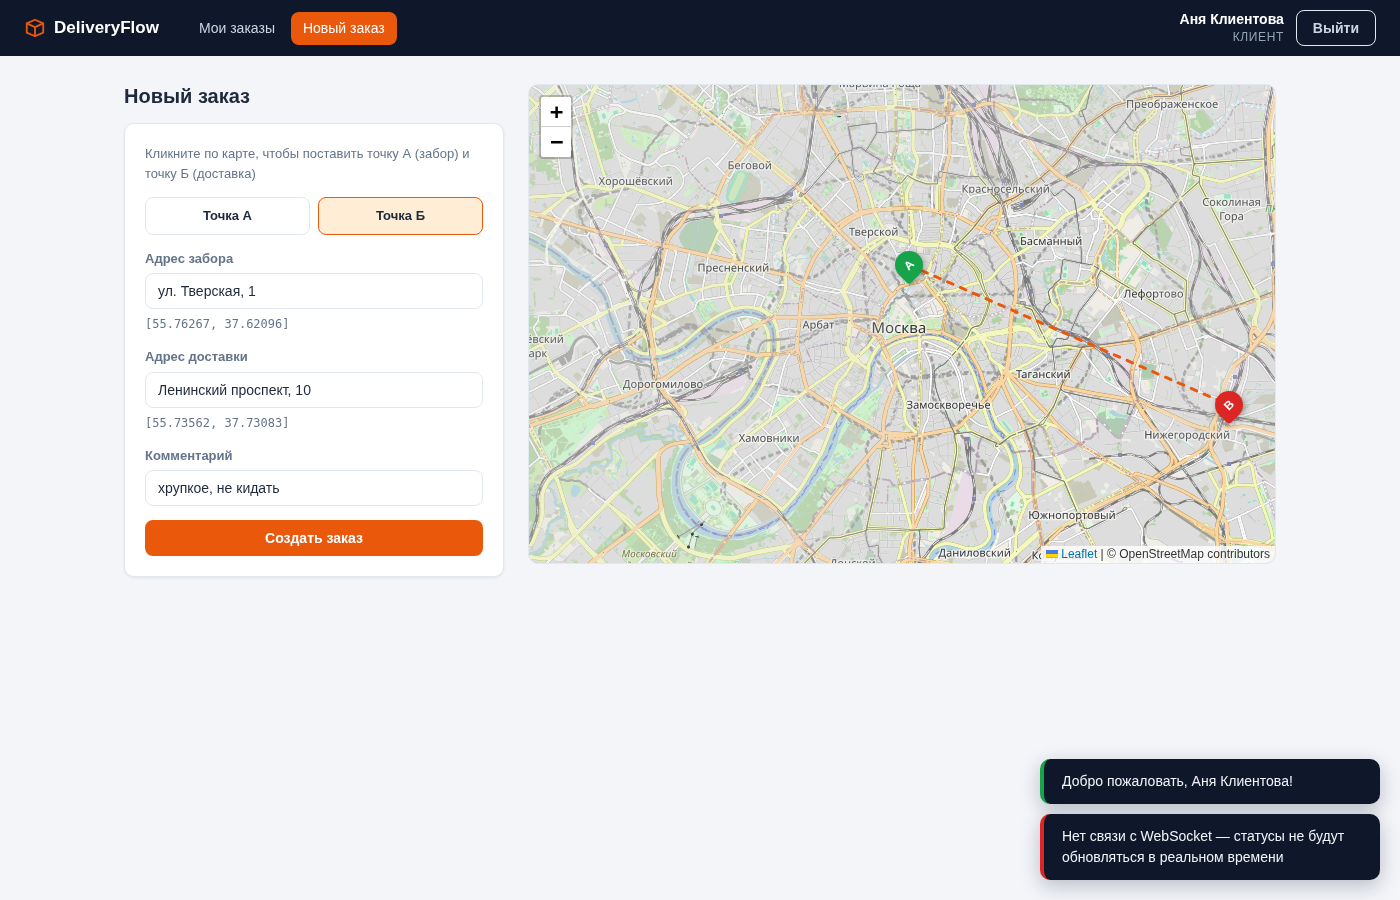
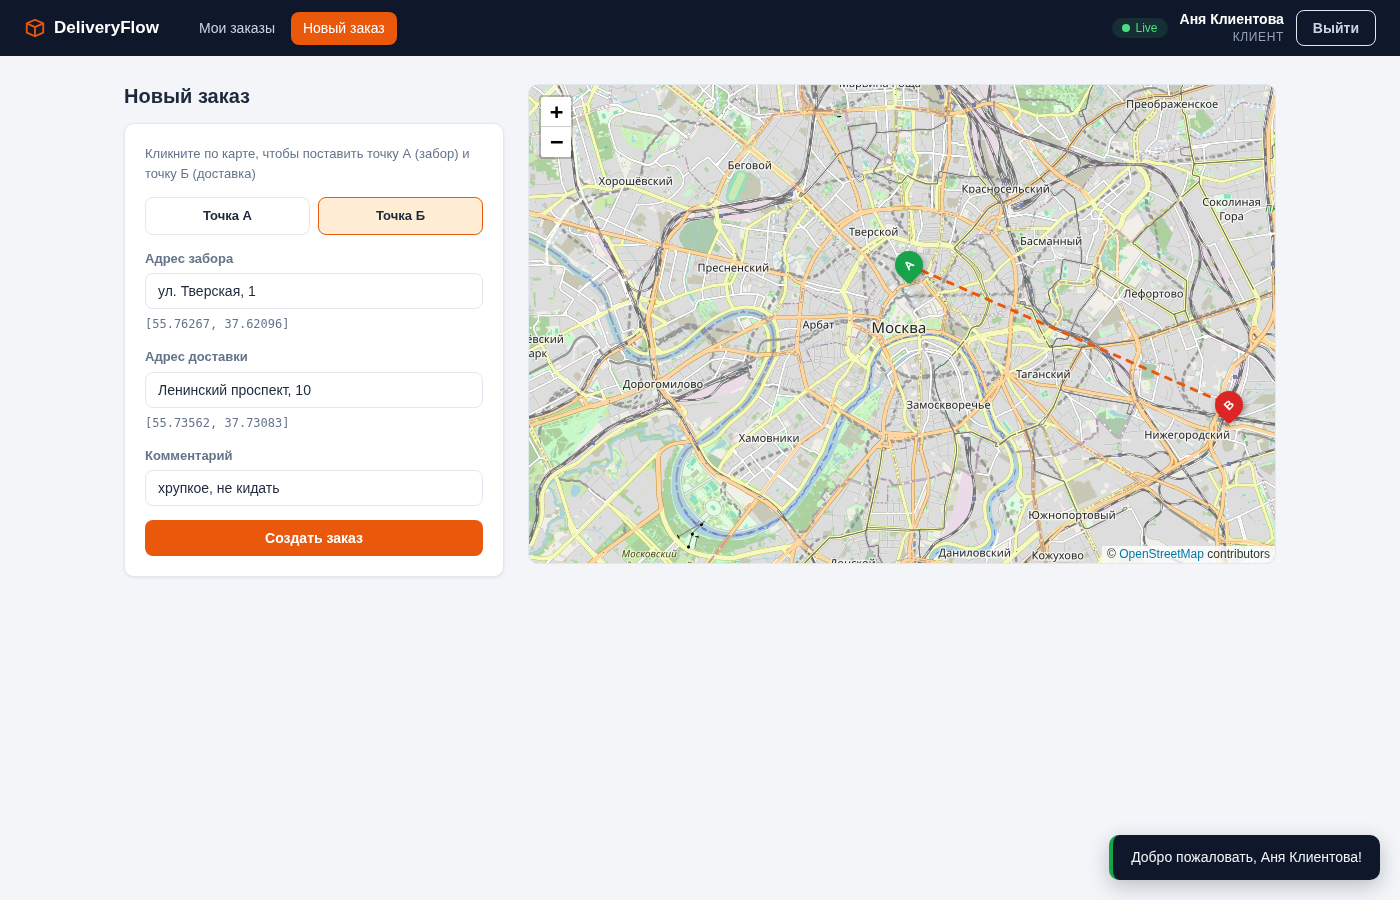
docs: Refresh screenshots and WebSocket section in READMEs

diff --git a/frontend/README.md b/frontend/README.md
@@ -33,11 +33,11 @@ frontend/
 │   ├── config.js       # адреса API/WS
 │   ├── api.js          # fetch-обёртка + автообновление JWT
 │   ├── auth.js         # сессия в localStorage
-│   ├── ws.js           # SockJS + STOMP, подписки на топики
+│   ├── ws.js           # нативный WebSocket + STOMP, подписки на топики
 │   ├── map.js          # обёртка над Leaflet
-│   ├── header.js       # шапка с навигацией по роли
+│   ├── header.js       # шапка с навигацией по роли и live-индикатором
 │   ├── router.js       # hash-роутер с проверкой роли
 │   ├── ui.js           # бейджи статусов, степпер, тосты
 │   └── views/          # экраны: авторизация, клиент, курьер, админ
-└── lib/                # sockjs, stomp.js, leaflet (без CDN)
+└── lib/                # stomp.js, leaflet (без CDN)
 ```

diff --git a/README.md b/README.md
@@ -128,7 +128,9 @@ python3 -m http.server 8000   # фронт на :8000 (CORS на бэкенде 
 - `GET /api/v1/admin/couriers` — курьеры
 - `GET /api/v1/admin/orders/{id}/history` — история статусов
 
-### WebSocket (STOMP over SockJS, endpoint `/ws`)
+### WebSocket (нативный WebSocket + STOMP, endpoint `/ws`)
+
+SockJS не используется — транспорт обычный WebSocket, поверх него STOMP-кадры. Состояние соединения видно в шапке по индикатору Live: зелёный — статусы приходят сами, серый — страницы работают в обычном режиме и обновляются вручную.
 
 | Топик | Что приходит |
 |-------|--------------|
